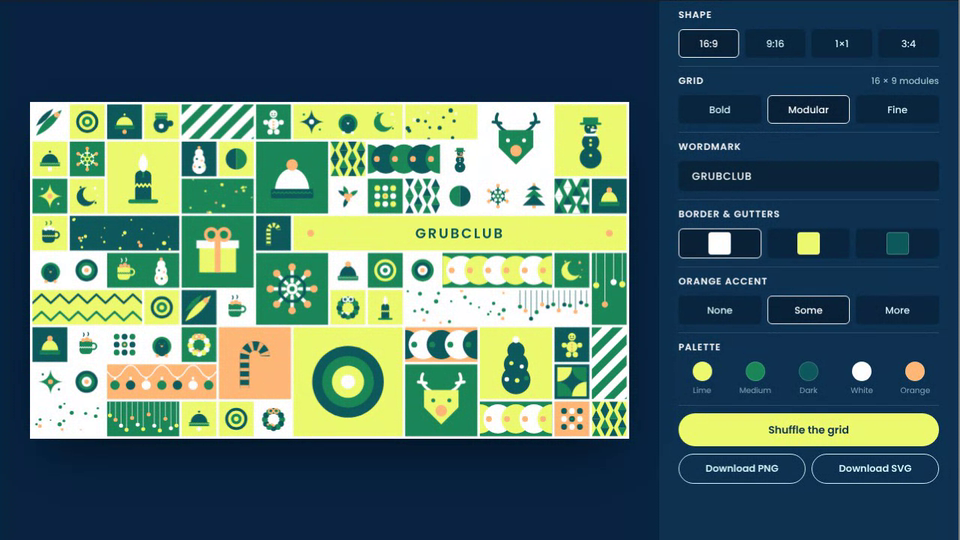
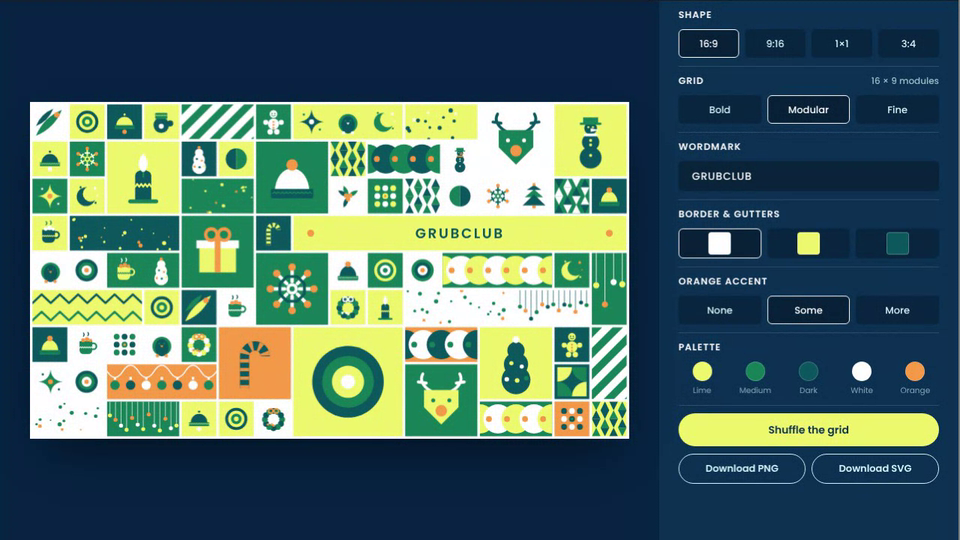
Grubclub Holiday Grid: use the Grubclub orange #F2994A
Claude-Session: https://claude.ai/code/session_01AHeBdyRCcuLFjvrTGpsW3f

diff --git a/grubclub-holiday/index.html b/grubclub-holiday/index.html
@@ -92,7 +92,7 @@ main{flex:1;min-height:0;display:grid;grid-template-columns:minmax(0,1fr) 400px}
         <span><i style="background:#1C8859"></i>Medium</span>
         <span><i style="background:#0F5A5C"></i>Dark</span>
         <span><i style="background:#fff"></i>White</span>
-        <span><i style="background:#FFB878"></i>Orange</span>
+        <span><i style="background:#F2994A"></i>Orange</span>
       </div></div>
     <div class="sec" style="border:0">
       <button id="shuf">Shuffle the grid</button>
@@ -103,7 +103,7 @@ main{flex:1;min-height:0;display:grid;grid-template-columns:minmax(0,1fr) 400px}
 <script>
 (() => {
 /* ---------- palette: Grubclub lime / kale / bean + white + the light orange accent ---------- */
-const C = { L: '#EEFB71', M: '#1C8859', D: '#0F5A5C', W: '#FFFFFF', O: '#FFB878' };
+const C = { L: '#EEFB71', M: '#1C8859', D: '#0F5A5C', W: '#FFFFFF', O: '#F2994A' };
 const SIZE = { '16:9': [1920, 1080], '9:16': [1080, 1920], '1:1': [1080, 1080], '3:4': [1080, 1440] };
 /* [cols, rows] per ratio and grid density (bold, modular, fine) */
 const GRID = {
